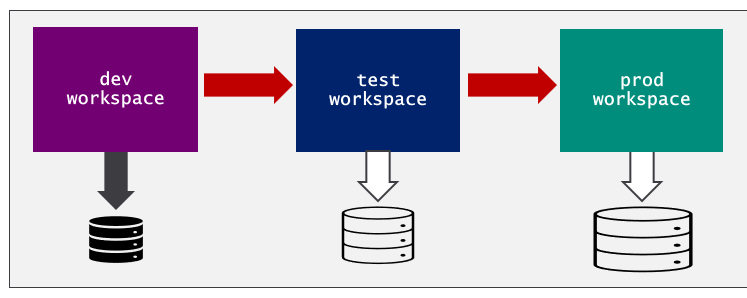
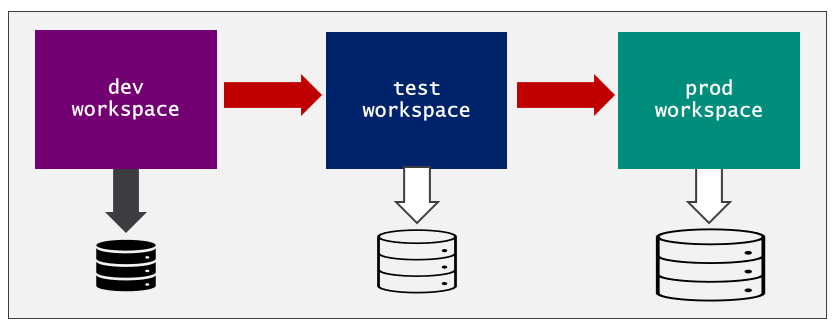
updates

Changed region(s): [[0.0, 0.0302, 1.0, 0.9966], [0.0616, 0.2416, 0.2155, 0.3624]]

diff --git a/Part 1- Overview of Fabric CICD.md b/Part 1- Overview of Fabric CICD.md
@@ -567,7 +567,7 @@ read variable values from a variable library. This makes it possible to
 avoid hardcoding configuration settings into your code that change
 across environments.
 
-<img src="./images/Part1/media/image26.png" style="width:50%" />
+<img src="./images/Part1/media/image26.png" style="width:42%" />
 
 Consider the classic scenario in which you need to build a release
 process that moves changes through a sequence of workspaces each of
